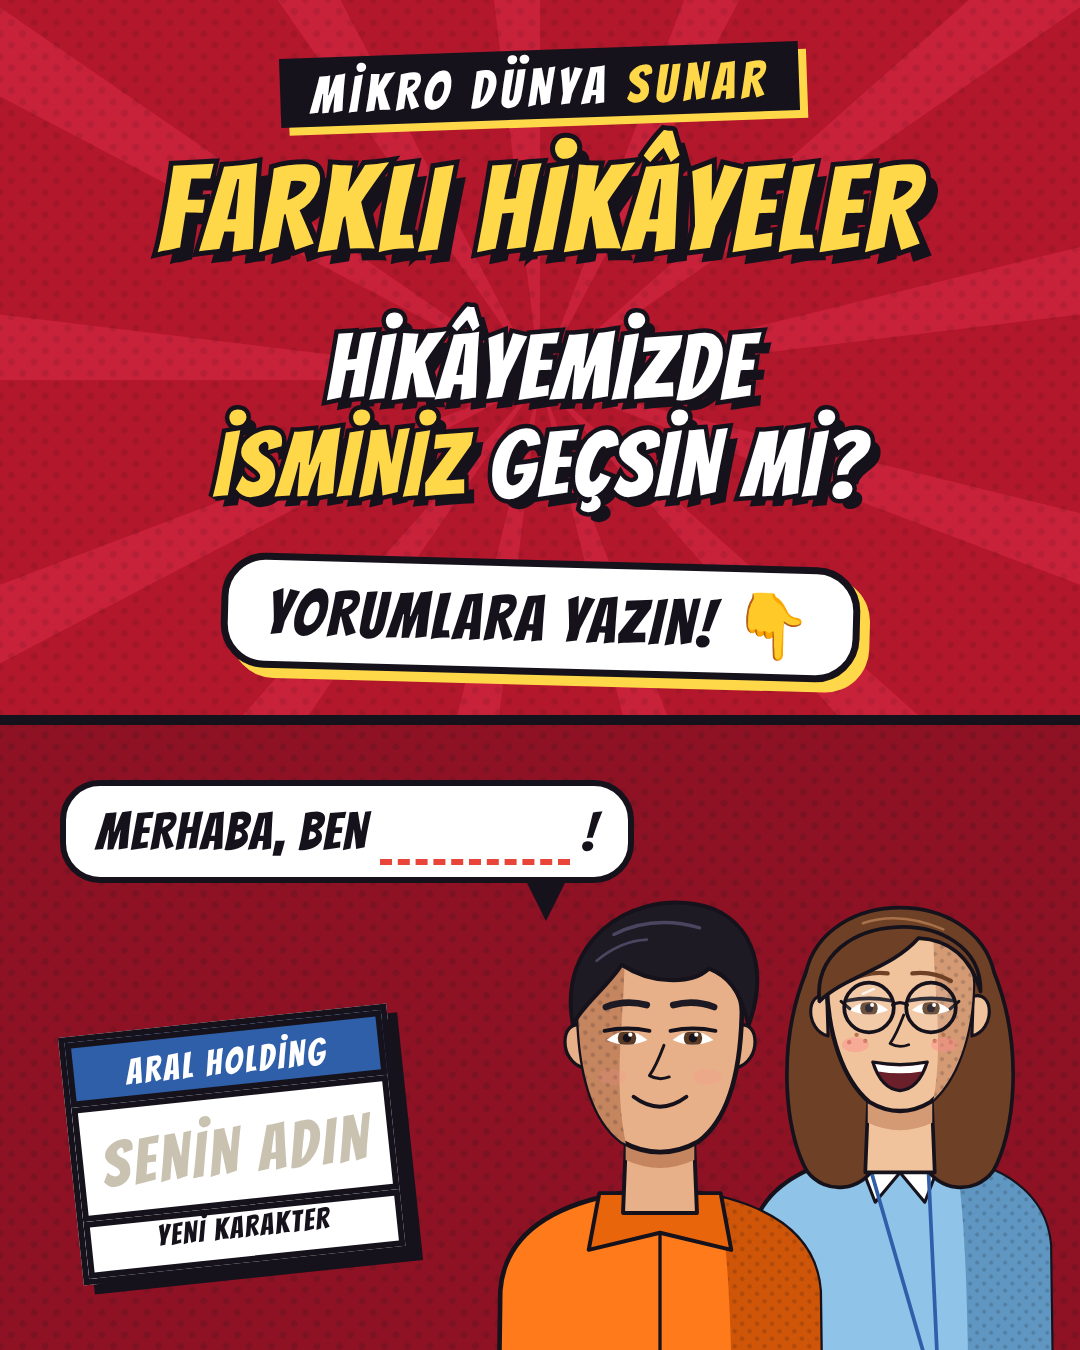
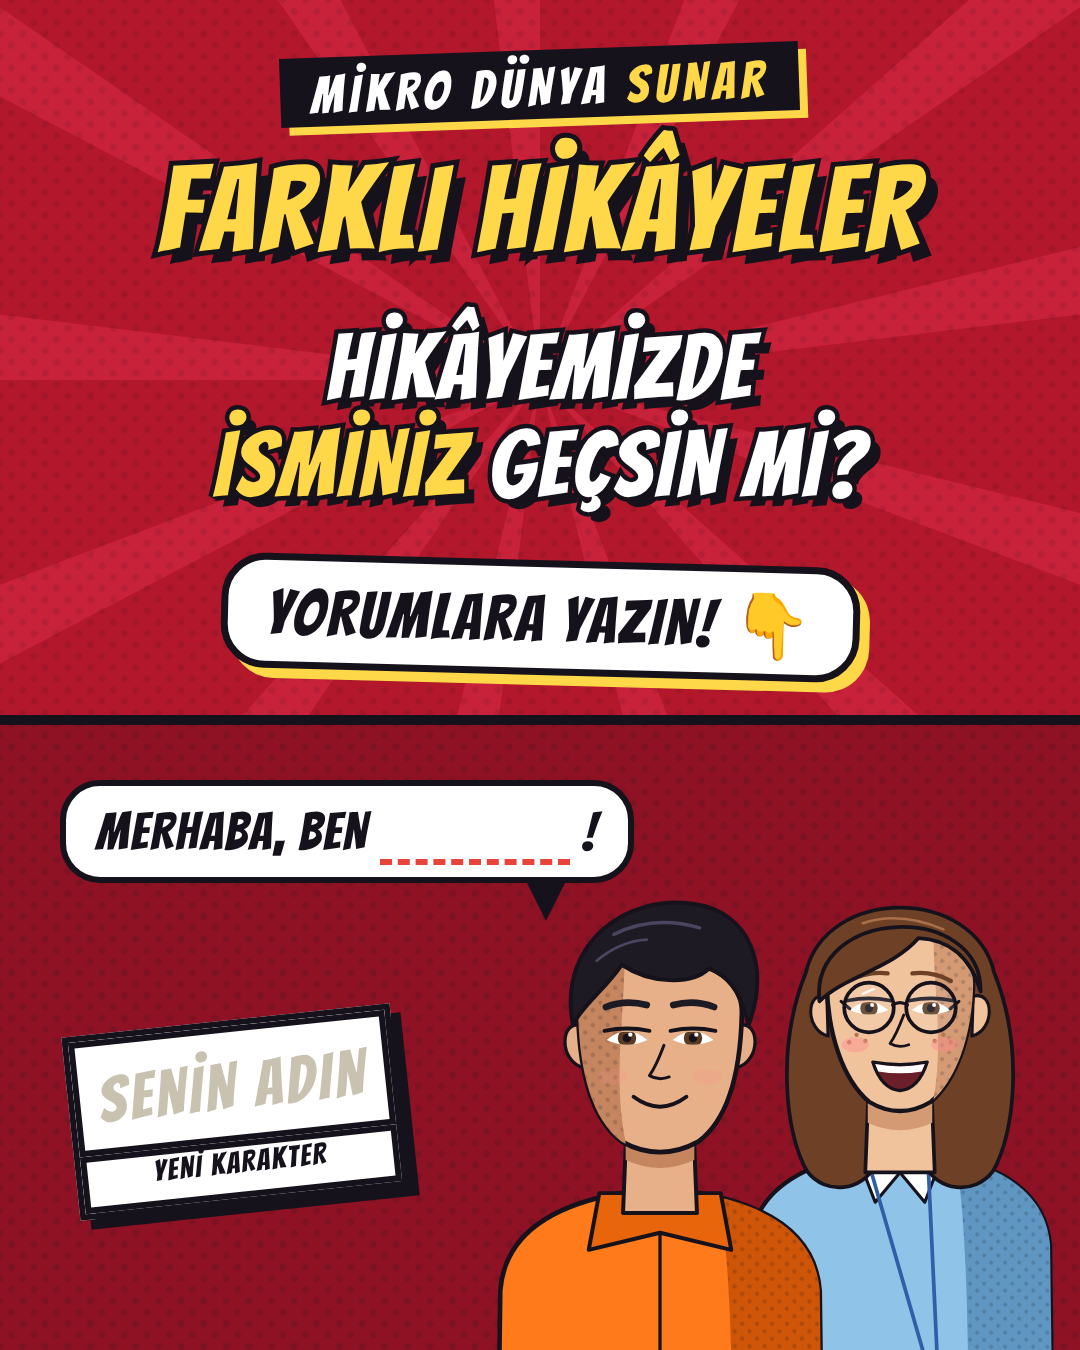
Names post: drop company header from name card
Claude-Session: https://claude.ai/code/session_01EAgCGF4m5dsMGdk54Vs2nW

Changed region(s): [[0.0306, 0.7467, 0.3972, 0.9644]]

diff --git a/kurye/brand/isimler.html b/kurye/brand/isimler.html
@@ -31,7 +31,7 @@ html, body { margin: 0; width: 1080px; height: 1350px; overflow: hidden; backgro
 <div class="abs q">HİKÂYEMİZDE<br/><b>İSMİNİZ</b> GEÇSİN Mİ?</div>
 <div class="abs cta"><span>YORUMLARA YAZIN! 👇</span></div>
 <div class="bubble"><span>MERHABA, BEN <u>&nbsp;</u> !</span></div>
-<div class="tag"><div><div class="h">ARAL HOLDİNG</div><div class="n">SENİN ADIN</div><div class="r">YENİ KARAKTER</div></div></div>
+<div class="tag"><div><div class="n">SENİN ADIN</div><div class="r">YENİ KARAKTER</div></div></div>
 <script src="../assets/comic.js"></script>
 <script src="../assets/comic_ep.js"></script>
 <script>
